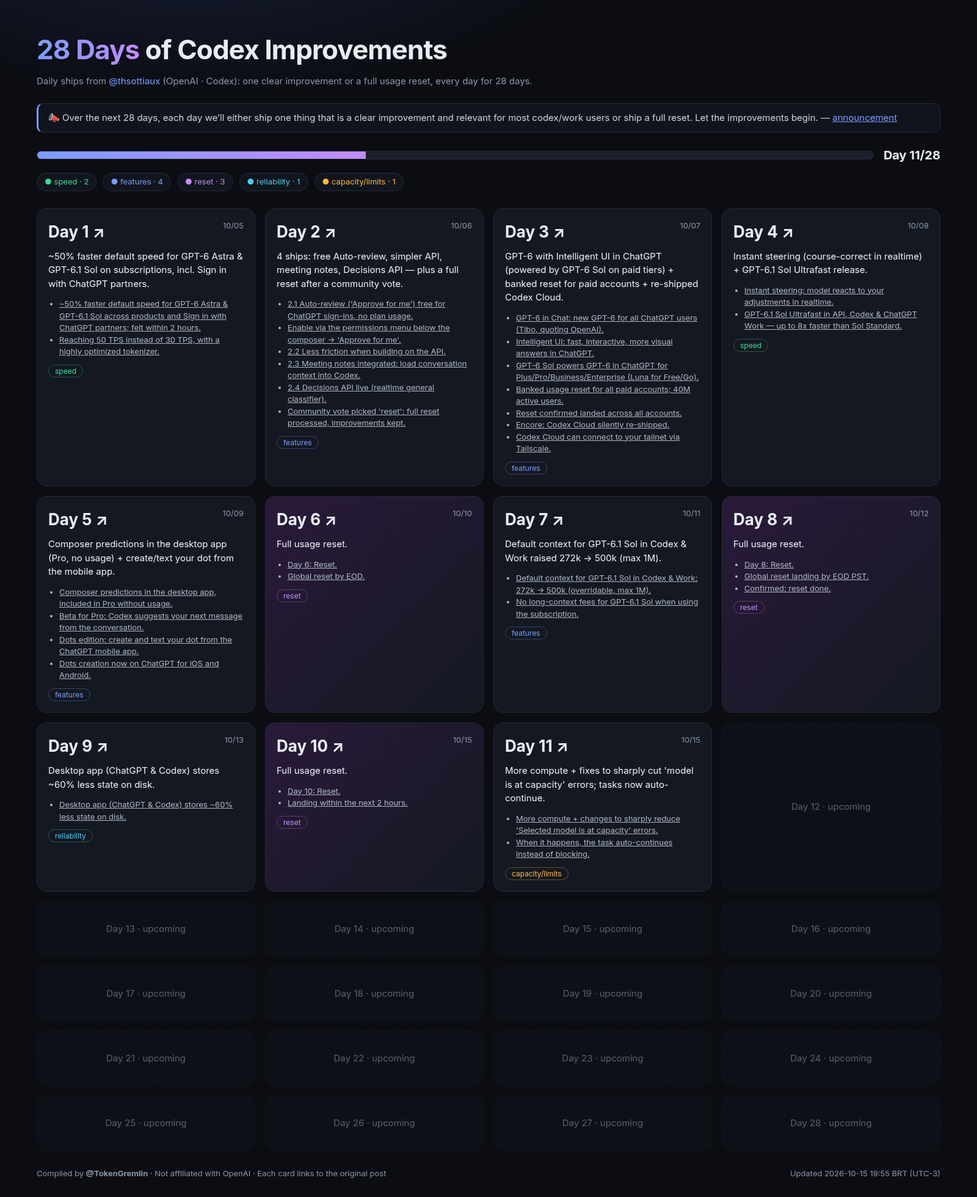
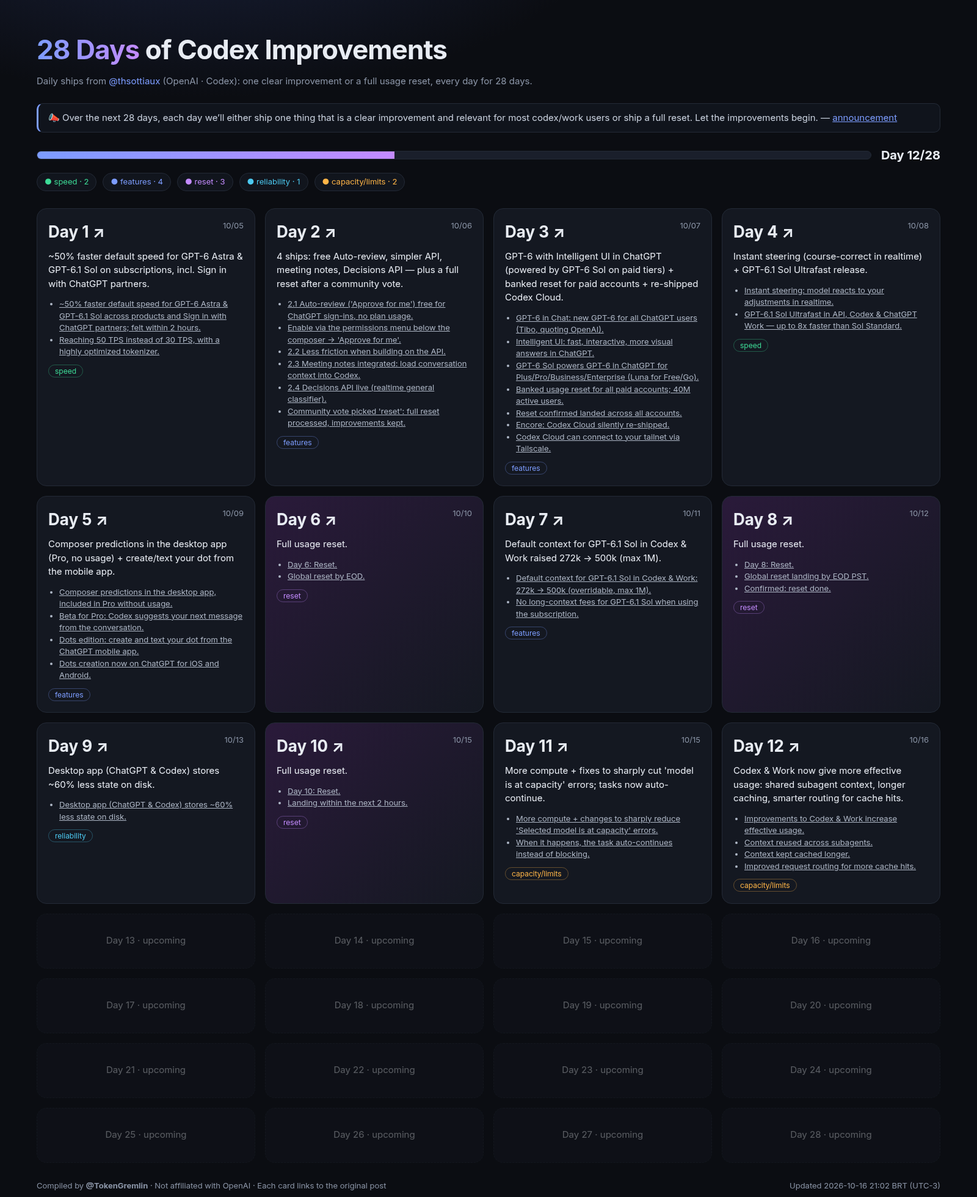
Add Day 12

diff --git a/index.html b/index.html
@@ -25,7 +25,7 @@ footer{margin-top:28px;color:var(--mut);font-size:13px;display:flex;justify-cont
 <div class="legend" id="legend"></div><div class="grid" id="grid"></div>
 <footer><span>Compiled by <b>@TokenGremlin</b> · Not affiliated with OpenAI · Each card links to the original post</span><span id="upd"></span></footer>
 </div>
-<script id="embedded" type="application/json">{"title": "28 Days of Codex Improvements", "author": "@thsottiaux", "compiled_by": "@TokenGremlin", "timezone": "BRT (UTC-3)", "updated": "2026-10-15 19:55", "total": 28, "announcement": {"date": "2026-10-04 17:33", "url": "https://x.com/i/status/2106845241357824205", "text": "Over the next 28 days, each day we’ll either ship one thing that is a clear improvement and relevant for most codex/work users or ship a full reset. Let the improvements begin."}, "days": [{"day": 1, "date": "2026-10-05 14:20", "ids": ["2107158998495748264"], "category": "speed", "text": "Day 1/\n\nWe have optimized the default speed to be ~50% faster across GPT-6 Astra and GPT-6.1 Sol through the subscription across all our products and partners using Sign in With ChatGPT (including OpenCode, Pi, Amp, Devin, ...).\n\nNo changes needed on your end and this should be felt within the next two hours.", "en": "~50% faster default speed for GPT-6 Astra & GPT-6.1 Sol on subscriptions, incl. Sign in with ChatGPT partners.", "pt": "Velocidade padrão ~50% maior no GPT-6 Astra e GPT-6.1 Sol nas assinaturas, inclusive parceiros (OpenCode, Amp, Devin…).", "url": "https://x.com/i/status/2107158998495748264", "urls": ["https://x.com/i/status/2107158998495748264"], "items": [{"en": "~50% faster default speed for GPT-6 Astra & GPT-6.1 Sol across products and Sign in with ChatGPT partners; felt within 2 hours.", "pt": "Velocidade padrão ~50% maior no GPT-6 Astra e GPT-6.1 Sol em todos os produtos e parceiros; efeito em até 2 horas.", "url": "https://x.com/i/status/2107158998495748264"}, {"en": "Reaching 50 TPS instead of 30 TPS, with a highly optimized tokenizer.", "pt": "50 TPS em vez de 30 TPS, com tokenizer bem otimizado.", "url": "https://x.com/i/status/2107159119107146237"}]}, {"day": 2, "date": "2026-10-06 04:13", "ids": ["2107368734981517634", "2107548725359104441", "2107573405553938664", "2107574912349303197", "2107575657014468879", "2107676072871600470"], "category": "features", "text": "Roundup of Day 2/\n\n2.1/ Approve for me (auto-review) is now included and does not use usage. Can be between 2-10% of plan when used. Also better for you.\n2.2/ Simplified API for builders.\n2.3/ Meeting notes integrated.\n2.4/ Decisions API live for builders. Will use in the app to improve the experience.", "en": "4 ships: free Auto-review, simpler API, meeting notes, Decisions API — plus a full reset after a community vote.", "pt": "4 entregas: Auto-review grátis, API simplificada, notas de reunião, Decisions API — e ainda um reset completo após votação.", "note": "Posted as Day 2.1–2.4 (Oct 6, 04:13–17:53 BRT) plus a roundup; followed by a poll 'Four updates or a reset'.", "url": "https://x.com/i/status/2107368734981517634", "urls": ["https://x.com/i/status/2107368734981517634", "https://x.com/i/status/2107548725359104441", "https://x.com/i/status/2107573405553938664", "https://x.com/i/status/2107574912349303197", "https://x.com/i/status/2107575657014468879", "https://x.com/i/status/2107676072871600470"], "items": [{"en": "2.1 Auto-review ('Approve for me') free for ChatGPT sign-ins, no plan usage.", "pt": "2.1 Auto-review ('Approve for me') grátis pra quem entra com conta ChatGPT, sem gastar uso.", "url": "https://x.com/i/status/2107368734981517634"}, {"en": "Enable via the permissions menu below the composer → 'Approve for me'.", "pt": "Ativa no menu de permissões abaixo do composer → 'Approve for me'.", "url": "https://x.com/i/status/2107504197012988007"}, {"en": "2.2 Less friction when building on the API.", "pt": "2.2 Menos atrito pra construir na API.", "url": "https://x.com/i/status/2107548725359104441"}, {"en": "2.3 Meeting notes integrated: load conversation context into Codex.", "pt": "2.3 Notas de reunião integradas: leva o contexto da conversa pro Codex.", "url": "https://x.com/i/status/2107573405553938664"}, {"en": "2.4 Decisions API live (realtime general classifier).", "pt": "2.4 Decisions API no ar (classificador geral em tempo real).", "url": "https://x.com/i/status/2107574912349303197"}, {"en": "Community vote picked 'reset': full reset processed, improvements kept.", "pt": "A votação escolheu 'reset': reset completo feito, melhorias mantidas.", "url": "https://x.com/i/status/2107676072871600470"}]}, {"day": 3, "date": "2026-10-07 16:19", "ids": ["2107913674593644711", "2108084615349170480", "2107912709715132482", "2107894997538525580", "2107895006350791071"], "category": "features", "text": "Day 3/\n\nThe big one is GPT-6 in Chat, but today is also a little celebration day with a new high of 40M active users across Codex and ChatGPT Work.\n\nLoading a banked reset in everyone's paid accounts. See you again tomorrow!\n\n---\nDay 3 (encore)/\n\nWe silently re-shipped codex cloud. It’s pretty good now", "en": "GPT-6 with Intelligent UI in ChatGPT (powered by GPT-6 Sol on paid tiers) + banked reset for paid accounts + re-shipped Codex Cloud.", "pt": "GPT-6 com Intelligent UI no ChatGPT (GPT-6 Sol nos planos pagos) + reset guardado nas contas pagas + Codex Cloud relançado.", "url": "https://x.com/i/status/2107913674593644711", "urls": ["https://x.com/i/status/2107913674593644711", "https://x.com/i/status/2108084615349170480", "https://x.com/i/status/2107912709715132482", "https://x.com/i/status/2107894997538525580", "https://x.com/i/status/2107895006350791071"], "items": [{"en": "GPT-6 in Chat: new GPT-6 for all ChatGPT users (Tibo, quoting OpenAI).", "pt": "GPT-6 no Chat: novo GPT-6 pra todos no ChatGPT (Tibo citando a OpenAI).", "url": "https://x.com/i/status/2107912709715132482"}, {"en": "Intelligent UI: fast, interactive, more visual answers in ChatGPT.", "pt": "Intelligent UI: respostas rápidas, interativas e mais visuais no ChatGPT.", "url": "https://x.com/OpenAI/status/2107894997538525580"}, {"en": "GPT-6 Sol powers GPT-6 in ChatGPT for Plus/Pro/Business/Enterprise (Luna for Free/Go).", "pt": "GPT-6 Sol roda o GPT-6 no ChatGPT pra Plus/Pro/Business/Enterprise (Luna no Free/Go).", "url": "https://x.com/OpenAI/status/2107895006350791071"}, {"en": "Banked usage reset for all paid accounts; 40M active users.", "pt": "Reset guardado em todas as contas pagas; 40M usuários ativos.", "url": "https://x.com/i/status/2107913674593644711"}, {"en": "Reset confirmed landed across all accounts.", "pt": "Reset confirmado em todas as contas.", "url": "https://x.com/i/status/2108040921044639779"}, {"en": "Encore: Codex Cloud silently re-shipped.", "pt": "Encore: Codex Cloud relançado.", "url": "https://x.com/i/status/2108084615349170480"}, {"en": "Codex Cloud can connect to your tailnet via Tailscale.", "pt": "O Codex Cloud conecta à sua tailnet via Tailscale.", "url": "https://x.com/Tailscale/status/2107836671605551217"}], "note": "Tibo's Day 3 post only says 'The big one is GPT-6 in Chat'. OpenAI calls the feature 'Intelligent UI' (not 'Smart UI'); the GPT-6 Sol detail comes from OpenAI's thread."}, {"day": 4, "date": "2026-10-08 16:15", "ids": ["2108275041276420573"], "category": "speed", "text": "Day 4/\n\nWe have improved steering to be instant, leading to the model now reacting much faster to adjustments you make, allowing you to course-correct direction in realtime and not have the model waste effort.\n\nAlso releasing GPT-6.1 Sol ultrafast. The two work very well together.", "en": "Instant steering (course-correct in realtime) + GPT-6.1 Sol Ultrafast release.", "pt": "Steering instantâneo (corrigir o rumo em tempo real) + lançamento do GPT-6.1 Sol Ultrafast.", "url": "https://x.com/i/status/2108275041276420573", "urls": ["https://x.com/i/status/2108275041276420573"], "items": [{"en": "Instant steering: model reacts to your adjustments in realtime.", "pt": "Steering instantâneo: o modelo reage aos seus ajustes em tempo real.", "url": "https://x.com/i/status/2108275041276420573"}, {"en": "GPT-6.1 Sol Ultrafast in API, Codex & ChatGPT Work — up to 8x faster than Sol Standard.", "pt": "GPT-6.1 Sol Ultrafast na API, Codex e ChatGPT Work — até 8x mais rápido que o Sol Standard.", "url": "https://x.com/OpenAIDevs/status/2108262812489531498"}]}, {"day": 5, "date": "2026-10-09 16:47", "ids": ["2108645667451318747", "2108646052178092403"], "category": "features", "text": "Day 5/\n\nComposer predictions in the desktop app. Often leads to a double take with how on point they are. Included in the Pro plans without consuming usage.\n\n---\nDay 5 (dots edition)/\n\nYou can now create and text your dot entirely from the ChatGPT mobile app. Impressed so many created them via the desktop/web app previously. Time to scale!", "en": "Composer predictions in the desktop app (Pro, no usage) + create/text your dot from the mobile app.", "pt": "Previsões no composer do app desktop (Pro, sem gastar uso) + criar e conversar com seu dot no app mobile.", "url": "https://x.com/i/status/2108645667451318747", "urls": ["https://x.com/i/status/2108645667451318747", "https://x.com/i/status/2108646052178092403"], "items": [{"en": "Composer predictions in the desktop app, included in Pro without usage.", "pt": "Previsões no composer do app desktop, no Pro sem gastar uso.", "url": "https://x.com/i/status/2108645667451318747"}, {"en": "Beta for Pro: Codex suggests your next message from the conversation.", "pt": "Beta no Pro: o Codex sugere sua próxima mensagem com base na conversa.", "url": "https://x.com/OpenAIDevs/status/2108624138369929725"}, {"en": "Dots edition: create and text your dot from the ChatGPT mobile app.", "pt": "Edição dots: crie e converse com seu dot no app mobile do ChatGPT.", "url": "https://x.com/i/status/2108646052178092403"}, {"en": "Dots creation now on ChatGPT for iOS and Android.", "pt": "Criação de dots agora no ChatGPT pra iOS e Android.", "url": "https://x.com/ChatGPT/status/2108636745915052037"}]}, {"day": 6, "date": "2026-10-10 19:15", "ids": ["2109045220411351517"], "category": "reset", "text": "Day 6/ Reset", "en": "Full usage reset.", "pt": "Reset completo de uso.", "url": "https://x.com/i/status/2109045220411351517", "urls": ["https://x.com/i/status/2109045220411351517"], "items": [{"en": "Day 6: Reset.", "pt": "Day 6: Reset.", "url": "https://x.com/i/status/2109045220411351517"}, {"en": "Global reset by EOD.", "pt": "Reset global até o fim do dia.", "url": "https://x.com/i/status/2109045392684032299"}]}, {"day": 7, "date": "2026-10-11 20:45", "ids": ["2109430343346581527"], "category": "features", "text": "Day 7/\n\nWe have increased default context length for GPT-6.1 Sol to 500k when used through Codex & Work, up from 272k or an ~ 80% increase.\n\nWe will go higher in the future, but it helps reduce occurrence of compactions and with tasks that require keeping a lot of context and nuance over periods of time. It was carefully tested and is the new sweet spot for most of our users. You can still override it if you want to be higher our lower, with maximum context length of GPT-6.1 Sol of 1M.", "en": "Default context for GPT-6.1 Sol in Codex & Work raised 272k → 500k (max 1M).", "pt": "Contexto padrão do GPT-6.1 Sol no Codex e Work subiu de 272k pra 500k (máx. 1M).", "url": "https://x.com/i/status/2109430343346581527", "urls": ["https://x.com/i/status/2109430343346581527"], "items": [{"en": "Default context for GPT-6.1 Sol in Codex & Work: 272k → 500k (overridable, max 1M).", "pt": "Contexto padrão do GPT-6.1 Sol no Codex e Work: 272k → 500k (ajustável, máx. 1M).", "url": "https://x.com/i/status/2109430343346581527"}, {"en": "No long-context fees for GPT-6.1 Sol when using the subscription.", "pt": "Sem taxa de contexto longo no GPT-6.1 Sol usando a assinatura.", "url": "https://x.com/i/status/2109430894604026039"}]}, {"day": 8, "date": "2026-10-12 22:03", "ids": ["2109812216212099456"], "category": "reset", "text": "Day 8/ Reset", "en": "Full usage reset.", "pt": "Reset completo de uso.", "url": "https://x.com/i/status/2109812216212099456", "urls": ["https://x.com/i/status/2109812216212099456"], "items": [{"en": "Day 8: Reset.", "pt": "Day 8: Reset.", "url": "https://x.com/i/status/2109812216212099456"}, {"en": "Global reset landing by EOD PST.", "pt": "Reset global até o fim do dia (PST).", "url": "https://x.com/i/status/2109812360596865224"}, {"en": "Confirmed: reset done.", "pt": "Confirmado: reset concluído.", "url": "https://x.com/i/status/2109873287853707513"}]}, {"day": 9, "date": "2026-10-13 20:32", "ids": ["2110151780478927344"], "category": "reliability", "text": "Day 9/\n\nWe've rolled out optimizations to how we store state on disk for the chatgpt & codex desktop app that should reduce the amount stored on disk by 60%. Small ship but we've heard enough feedback about power users running out of disk space.", "en": "Desktop app (ChatGPT & Codex) stores ~60% less state on disk.", "pt": "App desktop (ChatGPT e Codex) passa a ocupar ~60% menos espaço em disco.", "note": "Same text was first posted 20s earlier mislabeled 'Day 8/' (2110151690641154499).", "url": "https://x.com/i/status/2110151780478927344", "urls": ["https://x.com/i/status/2110151780478927344"], "items": [{"en": "Desktop app (ChatGPT & Codex) stores ~60% less state on disk.", "pt": "App desktop (ChatGPT e Codex) usa ~60% menos disco.", "url": "https://x.com/i/status/2110151780478927344"}]}, {"day": 10, "date": "2026-10-15 01:55", "ids": ["2110595484180214059"], "category": "reset", "text": "The reports of my reset button being lost are greatly exaggerated\n\nDay 10/ Reset", "en": "Full usage reset.", "pt": "Reset completo de uso.", "url": "https://x.com/i/status/2110595484180214059", "urls": ["https://x.com/i/status/2110595484180214059"], "items": [{"en": "Day 10: Reset.", "pt": "Day 10: Reset.", "url": "https://x.com/i/status/2110595484180214059"}, {"en": "Landing within the next 2 hours.", "pt": "Chega nas próximas 2 horas.", "url": "https://x.com/i/status/2110595554036400151"}]}, {"day": 11, "date": "2026-10-15 12:11", "ids": ["2110750421367287996"], "category": "capacity/limits", "text": "Day 11/\n\nWe've landed a series of changes and more compute to very significantly decrease the occurrence of the disruptive \"Selected model is at capacity. Please try a different model\". When it does happen, it should also eventually just continue by itself and not just block on it.\n\nLet us know if you still see it out there in the wild and we'll take a look.", "en": "More compute + fixes to sharply cut 'model is at capacity' errors; tasks now auto-continue.", "pt": "Mais compute e ajustes pra reduzir muito o erro “model is at capacity”; agora a tarefa continua sozinha.", "url": "https://x.com/i/status/2110750421367287996", "urls": ["https://x.com/i/status/2110750421367287996"], "items": [{"en": "More compute + changes to sharply reduce 'Selected model is at capacity' errors.", "pt": "Mais compute e ajustes pra reduzir muito o erro 'Selected model is at capacity'.", "url": "https://x.com/i/status/2110750421367287996"}, {"en": "When it happens, the task auto-continues instead of blocking.", "pt": "Quando acontecer, a tarefa continua sozinha em vez de travar.", "url": "https://x.com/i/status/2110750421367287996"}]}]}</script>
+<script id="embedded" type="application/json">{"title": "28 Days of Codex Improvements", "author": "@thsottiaux", "compiled_by": "@TokenGremlin", "timezone": "BRT (UTC-3)", "updated": "2026-10-16 21:02", "total": 28, "announcement": {"date": "2026-10-04 17:33", "url": "https://x.com/i/status/2106845241357824205", "text": "Over the next 28 days, each day we’ll either ship one thing that is a clear improvement and relevant for most codex/work users or ship a full reset. Let the improvements begin."}, "days": [{"day": 1, "date": "2026-10-05 14:20", "ids": ["2107158998495748264"], "category": "speed", "text": "Day 1/\n\nWe have optimized the default speed to be ~50% faster across GPT-6 Astra and GPT-6.1 Sol through the subscription across all our products and partners using Sign in With ChatGPT (including OpenCode, Pi, Amp, Devin, ...).\n\nNo changes needed on your end and this should be felt within the next two hours.", "en": "~50% faster default speed for GPT-6 Astra & GPT-6.1 Sol on subscriptions, incl. Sign in with ChatGPT partners.", "pt": "Velocidade padrão ~50% maior no GPT-6 Astra e GPT-6.1 Sol nas assinaturas, inclusive parceiros (OpenCode, Amp, Devin…).", "url": "https://x.com/i/status/2107158998495748264", "urls": ["https://x.com/i/status/2107158998495748264"], "items": [{"en": "~50% faster default speed for GPT-6 Astra & GPT-6.1 Sol across products and Sign in with ChatGPT partners; felt within 2 hours.", "pt": "Velocidade padrão ~50% maior no GPT-6 Astra e GPT-6.1 Sol em todos os produtos e parceiros; efeito em até 2 horas.", "url": "https://x.com/i/status/2107158998495748264"}, {"en": "Reaching 50 TPS instead of 30 TPS, with a highly optimized tokenizer.", "pt": "50 TPS em vez de 30 TPS, com tokenizer bem otimizado.", "url": "https://x.com/i/status/2107159119107146237"}]}, {"day": 2, "date": "2026-10-06 04:13", "ids": ["2107368734981517634", "2107548725359104441", "2107573405553938664", "2107574912349303197", "2107575657014468879", "2107676072871600470"], "category": "features", "text": "Roundup of Day 2/\n\n2.1/ Approve for me (auto-review) is now included and does not use usage. Can be between 2-10% of plan when used. Also better for you.\n2.2/ Simplified API for builders.\n2.3/ Meeting notes integrated.\n2.4/ Decisions API live for builders. Will use in the app to improve the experience.", "en": "4 ships: free Auto-review, simpler API, meeting notes, Decisions API — plus a full reset after a community vote.", "pt": "4 entregas: Auto-review grátis, API simplificada, notas de reunião, Decisions API — e ainda um reset completo após votação.", "note": "Posted as Day 2.1–2.4 (Oct 6, 04:13–17:53 BRT) plus a roundup; followed by a poll 'Four updates or a reset'.", "url": "https://x.com/i/status/2107368734981517634", "urls": ["https://x.com/i/status/2107368734981517634", "https://x.com/i/status/2107548725359104441", "https://x.com/i/status/2107573405553938664", "https://x.com/i/status/2107574912349303197", "https://x.com/i/status/2107575657014468879", "https://x.com/i/status/2107676072871600470"], "items": [{"en": "2.1 Auto-review ('Approve for me') free for ChatGPT sign-ins, no plan usage.", "pt": "2.1 Auto-review ('Approve for me') grátis pra quem entra com conta ChatGPT, sem gastar uso.", "url": "https://x.com/i/status/2107368734981517634"}, {"en": "Enable via the permissions menu below the composer → 'Approve for me'.", "pt": "Ativa no menu de permissões abaixo do composer → 'Approve for me'.", "url": "https://x.com/i/status/2107504197012988007"}, {"en": "2.2 Less friction when building on the API.", "pt": "2.2 Menos atrito pra construir na API.", "url": "https://x.com/i/status/2107548725359104441"}, {"en": "2.3 Meeting notes integrated: load conversation context into Codex.", "pt": "2.3 Notas de reunião integradas: leva o contexto da conversa pro Codex.", "url": "https://x.com/i/status/2107573405553938664"}, {"en": "2.4 Decisions API live (realtime general classifier).", "pt": "2.4 Decisions API no ar (classificador geral em tempo real).", "url": "https://x.com/i/status/2107574912349303197"}, {"en": "Community vote picked 'reset': full reset processed, improvements kept.", "pt": "A votação escolheu 'reset': reset completo feito, melhorias mantidas.", "url": "https://x.com/i/status/2107676072871600470"}]}, {"day": 3, "date": "2026-10-07 16:19", "ids": ["2107913674593644711", "2108084615349170480", "2107912709715132482", "2107894997538525580", "2107895006350791071"], "category": "features", "text": "Day 3/\n\nThe big one is GPT-6 in Chat, but today is also a little celebration day with a new high of 40M active users across Codex and ChatGPT Work.\n\nLoading a banked reset in everyone's paid accounts. See you again tomorrow!\n\n---\nDay 3 (encore)/\n\nWe silently re-shipped codex cloud. It’s pretty good now", "en": "GPT-6 with Intelligent UI in ChatGPT (powered by GPT-6 Sol on paid tiers) + banked reset for paid accounts + re-shipped Codex Cloud.", "pt": "GPT-6 com Intelligent UI no ChatGPT (GPT-6 Sol nos planos pagos) + reset guardado nas contas pagas + Codex Cloud relançado.", "url": "https://x.com/i/status/2107913674593644711", "urls": ["https://x.com/i/status/2107913674593644711", "https://x.com/i/status/2108084615349170480", "https://x.com/i/status/2107912709715132482", "https://x.com/i/status/2107894997538525580", "https://x.com/i/status/2107895006350791071"], "items": [{"en": "GPT-6 in Chat: new GPT-6 for all ChatGPT users (Tibo, quoting OpenAI).", "pt": "GPT-6 no Chat: novo GPT-6 pra todos no ChatGPT (Tibo citando a OpenAI).", "url": "https://x.com/i/status/2107912709715132482"}, {"en": "Intelligent UI: fast, interactive, more visual answers in ChatGPT.", "pt": "Intelligent UI: respostas rápidas, interativas e mais visuais no ChatGPT.", "url": "https://x.com/OpenAI/status/2107894997538525580"}, {"en": "GPT-6 Sol powers GPT-6 in ChatGPT for Plus/Pro/Business/Enterprise (Luna for Free/Go).", "pt": "GPT-6 Sol roda o GPT-6 no ChatGPT pra Plus/Pro/Business/Enterprise (Luna no Free/Go).", "url": "https://x.com/OpenAI/status/2107895006350791071"}, {"en": "Banked usage reset for all paid accounts; 40M active users.", "pt": "Reset guardado em todas as contas pagas; 40M usuários ativos.", "url": "https://x.com/i/status/2107913674593644711"}, {"en": "Reset confirmed landed across all accounts.", "pt": "Reset confirmado em todas as contas.", "url": "https://x.com/i/status/2108040921044639779"}, {"en": "Encore: Codex Cloud silently re-shipped.", "pt": "Encore: Codex Cloud relançado.", "url": "https://x.com/i/status/2108084615349170480"}, {"en": "Codex Cloud can connect to your tailnet via Tailscale.", "pt": "O Codex Cloud conecta à sua tailnet via Tailscale.", "url": "https://x.com/Tailscale/status/2107836671605551217"}], "note": "Tibo's Day 3 post only says 'The big one is GPT-6 in Chat'. OpenAI calls the feature 'Intelligent UI' (not 'Smart UI'); the GPT-6 Sol detail comes from OpenAI's thread."}, {"day": 4, "date": "2026-10-08 16:15", "ids": ["2108275041276420573"], "category": "speed", "text": "Day 4/\n\nWe have improved steering to be instant, leading to the model now reacting much faster to adjustments you make, allowing you to course-correct direction in realtime and not have the model waste effort.\n\nAlso releasing GPT-6.1 Sol ultrafast. The two work very well together.", "en": "Instant steering (course-correct in realtime) + GPT-6.1 Sol Ultrafast release.", "pt": "Steering instantâneo (corrigir o rumo em tempo real) + lançamento do GPT-6.1 Sol Ultrafast.", "url": "https://x.com/i/status/2108275041276420573", "urls": ["https://x.com/i/status/2108275041276420573"], "items": [{"en": "Instant steering: model reacts to your adjustments in realtime.", "pt": "Steering instantâneo: o modelo reage aos seus ajustes em tempo real.", "url": "https://x.com/i/status/2108275041276420573"}, {"en": "GPT-6.1 Sol Ultrafast in API, Codex & ChatGPT Work — up to 8x faster than Sol Standard.", "pt": "GPT-6.1 Sol Ultrafast na API, Codex e ChatGPT Work — até 8x mais rápido que o Sol Standard.", "url": "https://x.com/OpenAIDevs/status/2108262812489531498"}]}, {"day": 5, "date": "2026-10-09 16:47", "ids": ["2108645667451318747", "2108646052178092403"], "category": "features", "text": "Day 5/\n\nComposer predictions in the desktop app. Often leads to a double take with how on point they are. Included in the Pro plans without consuming usage.\n\n---\nDay 5 (dots edition)/\n\nYou can now create and text your dot entirely from the ChatGPT mobile app. Impressed so many created them via the desktop/web app previously. Time to scale!", "en": "Composer predictions in the desktop app (Pro, no usage) + create/text your dot from the mobile app.", "pt": "Previsões no composer do app desktop (Pro, sem gastar uso) + criar e conversar com seu dot no app mobile.", "url": "https://x.com/i/status/2108645667451318747", "urls": ["https://x.com/i/status/2108645667451318747", "https://x.com/i/status/2108646052178092403"], "items": [{"en": "Composer predictions in the desktop app, included in Pro without usage.", "pt": "Previsões no composer do app desktop, no Pro sem gastar uso.", "url": "https://x.com/i/status/2108645667451318747"}, {"en": "Beta for Pro: Codex suggests your next message from the conversation.", "pt": "Beta no Pro: o Codex sugere sua próxima mensagem com base na conversa.", "url": "https://x.com/OpenAIDevs/status/2108624138369929725"}, {"en": "Dots edition: create and text your dot from the ChatGPT mobile app.", "pt": "Edição dots: crie e converse com seu dot no app mobile do ChatGPT.", "url": "https://x.com/i/status/2108646052178092403"}, {"en": "Dots creation now on ChatGPT for iOS and Android.", "pt": "Criação de dots agora no ChatGPT pra iOS e Android.", "url": "https://x.com/ChatGPT/status/2108636745915052037"}]}, {"day": 6, "date": "2026-10-10 19:15", "ids": ["2109045220411351517"], "category": "reset", "text": "Day 6/ Reset", "en": "Full usage reset.", "pt": "Reset completo de uso.", "url": "https://x.com/i/status/2109045220411351517", "urls": ["https://x.com/i/status/2109045220411351517"], "items": [{"en": "Day 6: Reset.", "pt": "Day 6: Reset.", "url": "https://x.com/i/status/2109045220411351517"}, {"en": "Global reset by EOD.", "pt": "Reset global até o fim do dia.", "url": "https://x.com/i/status/2109045392684032299"}]}, {"day": 7, "date": "2026-10-11 20:45", "ids": ["2109430343346581527"], "category": "features", "text": "Day 7/\n\nWe have increased default context length for GPT-6.1 Sol to 500k when used through Codex & Work, up from 272k or an ~ 80% increase.\n\nWe will go higher in the future, but it helps reduce occurrence of compactions and with tasks that require keeping a lot of context and nuance over periods of time. It was carefully tested and is the new sweet spot for most of our users. You can still override it if you want to be higher our lower, with maximum context length of GPT-6.1 Sol of 1M.", "en": "Default context for GPT-6.1 Sol in Codex & Work raised 272k → 500k (max 1M).", "pt": "Contexto padrão do GPT-6.1 Sol no Codex e Work subiu de 272k pra 500k (máx. 1M).", "url": "https://x.com/i/status/2109430343346581527", "urls": ["https://x.com/i/status/2109430343346581527"], "items": [{"en": "Default context for GPT-6.1 Sol in Codex & Work: 272k → 500k (overridable, max 1M).", "pt": "Contexto padrão do GPT-6.1 Sol no Codex e Work: 272k → 500k (ajustável, máx. 1M).", "url": "https://x.com/i/status/2109430343346581527"}, {"en": "No long-context fees for GPT-6.1 Sol when using the subscription.", "pt": "Sem taxa de contexto longo no GPT-6.1 Sol usando a assinatura.", "url": "https://x.com/i/status/2109430894604026039"}]}, {"day": 8, "date": "2026-10-12 22:03", "ids": ["2109812216212099456"], "category": "reset", "text": "Day 8/ Reset", "en": "Full usage reset.", "pt": "Reset completo de uso.", "url": "https://x.com/i/status/2109812216212099456", "urls": ["https://x.com/i/status/2109812216212099456"], "items": [{"en": "Day 8: Reset.", "pt": "Day 8: Reset.", "url": "https://x.com/i/status/2109812216212099456"}, {"en": "Global reset landing by EOD PST.", "pt": "Reset global até o fim do dia (PST).", "url": "https://x.com/i/status/2109812360596865224"}, {"en": "Confirmed: reset done.", "pt": "Confirmado: reset concluído.", "url": "https://x.com/i/status/2109873287853707513"}]}, {"day": 9, "date": "2026-10-13 20:32", "ids": ["2110151780478927344"], "category": "reliability", "text": "Day 9/\n\nWe've rolled out optimizations to how we store state on disk for the chatgpt & codex desktop app that should reduce the amount stored on disk by 60%. Small ship but we've heard enough feedback about power users running out of disk space.", "en": "Desktop app (ChatGPT & Codex) stores ~60% less state on disk.", "pt": "App desktop (ChatGPT e Codex) passa a ocupar ~60% menos espaço em disco.", "note": "Same text was first posted 20s earlier mislabeled 'Day 8/' (2110151690641154499).", "url": "https://x.com/i/status/2110151780478927344", "urls": ["https://x.com/i/status/2110151780478927344"], "items": [{"en": "Desktop app (ChatGPT & Codex) stores ~60% less state on disk.", "pt": "App desktop (ChatGPT e Codex) usa ~60% menos disco.", "url": "https://x.com/i/status/2110151780478927344"}]}, {"day": 10, "date": "2026-10-15 01:55", "ids": ["2110595484180214059"], "category": "reset", "text": "The reports of my reset button being lost are greatly exaggerated\n\nDay 10/ Reset", "en": "Full usage reset.", "pt": "Reset completo de uso.", "url": "https://x.com/i/status/2110595484180214059", "urls": ["https://x.com/i/status/2110595484180214059"], "items": [{"en": "Day 10: Reset.", "pt": "Day 10: Reset.", "url": "https://x.com/i/status/2110595484180214059"}, {"en": "Landing within the next 2 hours.", "pt": "Chega nas próximas 2 horas.", "url": "https://x.com/i/status/2110595554036400151"}]}, {"day": 11, "date": "2026-10-15 12:11", "ids": ["2110750421367287996"], "category": "capacity/limits", "text": "Day 11/\n\nWe've landed a series of changes and more compute to very significantly decrease the occurrence of the disruptive \"Selected model is at capacity. Please try a different model\". When it does happen, it should also eventually just continue by itself and not just block on it.\n\nLet us know if you still see it out there in the wild and we'll take a look.", "en": "More compute + fixes to sharply cut 'model is at capacity' errors; tasks now auto-continue.", "pt": "Mais compute e ajustes pra reduzir muito o erro “model is at capacity”; agora a tarefa continua sozinha.", "url": "https://x.com/i/status/2110750421367287996", "urls": ["https://x.com/i/status/2110750421367287996"], "items": [{"en": "More compute + changes to sharply reduce 'Selected model is at capacity' errors.", "pt": "Mais compute e ajustes pra reduzir muito o erro 'Selected model is at capacity'.", "url": "https://x.com/i/status/2110750421367287996"}, {"en": "When it happens, the task auto-continues instead of blocking.", "pt": "Quando acontecer, a tarefa continua sozinha em vez de travar.", "url": "https://x.com/i/status/2110750421367287996"}]}, {"day": 12, "date": "2026-10-16 20:55", "ids": ["2111244596131111253"], "category": "capacity/limits", "text": "Day 12/\n\nWe’ve made improvements to Codex & Work that increase the effective usage you get. We achieved this by reusing context across subagents, keeping context cached longer, and improved request routing that allows us to increase cache hits.", "en": "Codex & Work now give more effective usage: shared subagent context, longer caching, smarter routing for cache hits.", "pt": "Codex e Work agora rendem mais uso efetivo: contexto reaproveitado entre subagentes, cache mais longo e roteamento melhor pra mais cache hits.", "url": "https://x.com/i/status/2111244596131111253", "urls": ["https://x.com/i/status/2111244596131111253"], "items": [{"en": "Improvements to Codex & Work increase effective usage.", "pt": "Melhorias no Codex e no Work aumentam o uso efetivo.", "url": "https://x.com/i/status/2111244596131111253"}, {"en": "Context reused across subagents.", "pt": "Contexto reaproveitado entre subagentes.", "url": "https://x.com/i/status/2111244596131111253"}, {"en": "Context kept cached longer.", "pt": "Contexto fica em cache por mais tempo.", "url": "https://x.com/i/status/2111244596131111253"}, {"en": "Improved request routing for more cache hits.", "pt": "Roteamento de requisições melhorado pra aumentar os cache hits.", "url": "https://x.com/i/status/2111244596131111253"}]}]}</script>
 <script>
 const C={"speed":"#3ddc97","features":"#7c9cff","capacity/limits":"#ffb547","reliability":"#4cc9f0","reset":"#c38bff","pricing":"#ff6b8a"};
 const esc=s=>s.replace(/[&<>"]/g,c=>({"&":"&amp;","<":"&lt;",">":"&gt;",'"':"&quot;"}[c]));
